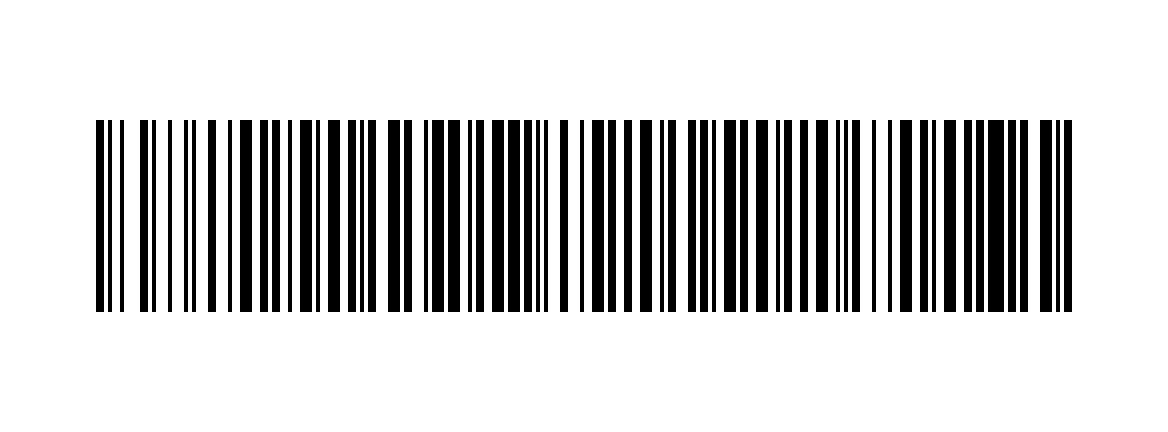
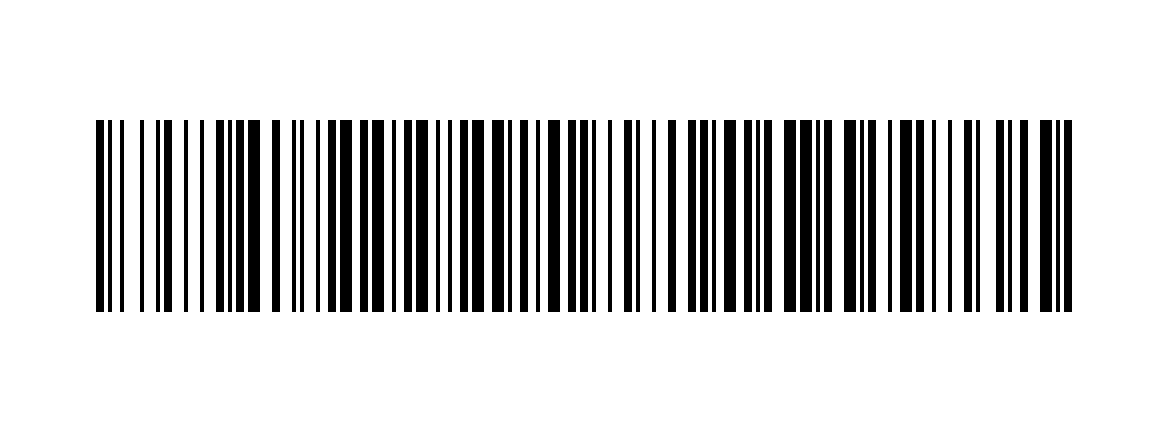
Rework matching to verify part numbers from kanban QR and tag barcode
The delivery-slip QR is a 66-char fixed record carrying the part number
at chars 11-20; the product-tag Code 128 encodes PART-NO@code. Comparing
raw payloads always mismatched on real labels, so CodeMatcher now
extracts and normalizes the part number from each side (with substring
fallback for non-standard QRs). Sample images and tests use payloads
decoded from real factory labels.

Changed region(s): [[0.1233, 0.2708, 0.5856, 0.7222], [0.6164, 0.2708, 0.8938, 0.7222]]

diff --git a/CodeMatchTests/CodeMatcherTests.swift b/CodeMatchTests/CodeMatcherTests.swift
@@ -2,23 +2,68 @@ import XCTest
 @testable import CodeMatch
 
 final class CodeMatcherTests: XCTestCase {
-    func testEqualValuesMatch() {
+    // 実ラベルからデコードした実データ
+    private let qrPayload = "DCLP675300BCJH5281GG020000120000001200L000000000000BLBDILLU92   0*"
+    private let barcodePayload = "BCJH-52-81GG@1N5X0C"
+
+    func testPartNumberFromBarcode() {
+        XCTAssertEqual(CodeMatcher.partNumber(fromBarcode: barcodePayload), "BCJH5281GG")
+        XCTAssertEqual(CodeMatcher.partNumber(fromBarcode: "KAAA-55-D86B@0Y5U0I"), "KAAA55D86B")
+        XCTAssertEqual(CodeMatcher.partNumber(fromBarcode: "BCJH-52-81GG"), "BCJH5281GG")
+        XCTAssertNil(CodeMatcher.partNumber(fromBarcode: "@ABC123"))
+    }
+
+    func testPartNumberFromQR() {
+        XCTAssertEqual(CodeMatcher.partNumber(fromQR: qrPayload), "BCJH5281GG")
+        // 枝番が空白のQR(納品書側の枝番欄が空)でも品目番号は取れる
         XCTAssertEqual(
-            CodeMatcher.compare("GA141KR9PA02@092D10", "GA141KR9PA02@092D10"),
+            CodeMatcher.partNumber(fromQR: "DAYA005100DFR55581GA  0001000000010000Y      000000BYBYTLYB16   0*"),
+            "DFR55581GA"
+        )
+        // カード番号フォーマットでない場合は固定位置抽出をしない
+        XCTAssertNil(CodeMatcher.partNumber(fromQR: "HELLO WORLD 1234567890"))
+        XCTAssertNil(CodeMatcher.partNumber(fromQR: "SHORT"))
+    }
+
+    func testRealPairMatches() {
+        XCTAssertEqual(CodeMatcher.compare(qrPayload: qrPayload, barcodePayload: barcodePayload), .match)
+    }
+
+    func testDifferentPartNumberMismatches() {
+        // BCJH-55-81GG (LH) と BCJH-52-81GG (RH) の取り違え
+        XCTAssertEqual(
+            CodeMatcher.compare(qrPayload: qrPayload, barcodePayload: "BCJH-55-81GG@1KVV0C"),
+            .mismatch
+        )
+    }
+
+    func testLotSuffixDifferenceStillMatches() {
+        // バーコードの@以降(管理コード)は品番照合に影響しない
+        XCTAssertEqual(
+            CodeMatcher.compare(qrPayload: qrPayload, barcodePayload: "BCJH-52-81GG@ZZZZZZ"),
             .match
         )
     }
 
-    func testSurroundingWhitespaceIsIgnored() {
-        XCTAssertEqual(CodeMatcher.compare("  ABC\n", "ABC"), .match)
+    func testNonStandardQRFallsBackToContainment() {
+        XCTAssertEqual(
+            CodeMatcher.compare(qrPayload: "PART:BCJH-52-81GG;QTY:12", barcodePayload: barcodePayload),
+            .match
+        )
+        XCTAssertEqual(
+            CodeMatcher.compare(qrPayload: "PART:DFR5-55-8SDA;QTY:30", barcodePayload: barcodePayload),
+            .mismatch
+        )
     }
 
-    func testComparisonIsCaseSensitive() {
-        XCTAssertEqual(CodeMatcher.compare("ABC", "abc"), .mismatch)
+    func testEmptyPayloadsMismatch() {
+        XCTAssertEqual(CodeMatcher.compare(qrPayload: "", barcodePayload: ""), .mismatch)
+        XCTAssertEqual(CodeMatcher.compare(qrPayload: qrPayload, barcodePayload: ""), .mismatch)
     }
 
-    func testDifferentValuesMismatch() {
-        XCTAssertEqual(CodeMatcher.compare("GA141KR9PA02@092D10", "GA141KR9PA02@092D11"), .mismatch)
+    func testFormatPartNumber() {
+        XCTAssertEqual(CodeMatcher.format(partNumber: "BCJH5281GG"), "BCJH-52-81GG")
+        XCTAssertEqual(CodeMatcher.format(partNumber: "ABC"), "ABC")
     }
 }
 
@@ -73,6 +118,25 @@ final class HistoryStoreTests: XCTestCase {
         XCTAssertEqual(store.sessions.count, 2)
         XCTAssertEqual(store.sessions[0].entries.map(\.code), ["SECOND"])
         XCTAssertEqual(store.sessions[1].entries.map(\.code), ["FIRST"])
+    }
+
+    func testDeleteSessionsRemovesAndPersists() {
+        let storageURL = temporaryStorageURL()
+        defer { try? FileManager.default.removeItem(at: storageURL.deletingLastPathComponent()) }
+        let store = HistoryStore(storageURL: storageURL)
+        store.beginSession()
+        store.recordMatch(code: "FIRST")
+        store.endActiveSession()
+        store.beginSession()
+        store.endActiveSession()
+
+        store.deleteSessions(at: IndexSet(integer: 0))
+
+        XCTAssertEqual(store.sessions.count, 1)
+        XCTAssertEqual(store.sessions.first?.entries.map(\.code), ["FIRST"])
+
+        let restored = HistoryStore(storageURL: storageURL)
+        XCTAssertEqual(restored.sessions.count, 1)
     }
 
     private func temporaryStorageURL() -> URL {

diff --git a/CodeMatch/Models/ScanModels.swift b/CodeMatch/Models/ScanModels.swift
@@ -31,11 +31,64 @@ enum ExpectedCode: Equatable {
     }
 }
 
+/// 現場ラベルの実データ仕様に基づく品番照合。
+///
+/// - 現品票のCode 128: `品番(ハイフン付き)@管理コード` 例: `BCJH-52-81GG@1N5X0C`
+/// - 納品書兼現品票のQR: 固定長レコード。先頭からカード番号(10桁)、品目番号(10桁・区切りなし)、
+///   枝番(2桁・空白の場合あり)、数量などが続く。例: `DCLP675300` + `BCJH5281GG` + `02` + …
+///
+/// 2つのペイロードは文字列としては一致しないため、双方から品番を抽出して比較する。
 enum CodeMatcher {
-    static func compare(_ first: String, _ second: String) -> MatchResult {
-        first.trimmingCharacters(in: .whitespacesAndNewlines)
-            == second.trimmingCharacters(in: .whitespacesAndNewlines)
-            ? .match
-            : .mismatch
+    /// 大文字化し、英数字以外(ハイフン・空白など)を取り除く。
+    static func normalize(_ raw: String) -> String {
+        raw.uppercased().filter { $0.isASCII && ($0.isLetter || $0.isNumber) }
+    }
+
+    /// Code 128ペイロードから品番を抽出する。`@`より前がハイフン付き品番。
+    /// `BCJH-52-81GG@1N5X0C` → `BCJH5281GG`
+    static func partNumber(fromBarcode raw: String) -> String? {
+        let head = raw.split(separator: "@", maxSplits: 1, omittingEmptySubsequences: false)
+            .first.map(String.init) ?? raw
+        let normalized = normalize(head)
+        return normalized.isEmpty ? nil : normalized
+    }
+
+    /// QRペイロードから品目番号を抽出する。
+    /// 先頭10桁がカード番号(英字4+数字6)の標準フォーマットのとき、続く10桁が品目番号。
+    static func partNumber(fromQR raw: String) -> String? {
+        let payload = raw.trimmingCharacters(in: .whitespacesAndNewlines).uppercased()
+        guard payload.count >= 20 else { return nil }
+        let cardNumber = payload.prefix(10)
+        guard cardNumber.range(of: "^[A-Z]{4}[0-9]{6}$", options: .regularExpression) != nil else {
+            return nil
+        }
+        let start = payload.index(payload.startIndex, offsetBy: 10)
+        let end = payload.index(payload.startIndex, offsetBy: 20)
+        let part = String(payload[start..<end])
+        guard part.range(of: "^[A-Z0-9]{10}$", options: .regularExpression) != nil else { return nil }
+        return part
+    }
+
+    /// QRの品目番号とバーコードの品番が同一かを判定する。
+    /// QRが標準フォーマットでない場合は、正規化した全文に品番が含まれるかで代替判定する。
+    static func compare(qrPayload: String, barcodePayload: String) -> MatchResult {
+        guard let barcodePart = partNumber(fromBarcode: barcodePayload) else { return .mismatch }
+
+        if let qrPart = partNumber(fromQR: qrPayload) {
+            return qrPart == barcodePart ? .match : .mismatch
+        }
+
+        // 誤検出を避けるため、代替判定は品番が十分な長さの場合だけ行う。
+        guard barcodePart.count >= 6 else { return .mismatch }
+        return normalize(qrPayload).contains(barcodePart) ? .match : .mismatch
+    }
+
+    /// 10桁の品番を現品票の表記(4-2-4)へ整形する。 `BCJH5281GG` → `BCJH-52-81GG`
+    static func format(partNumber: String) -> String {
+        guard partNumber.count == 10 else { return partNumber }
+        let head = partNumber.prefix(4)
+        let mid = partNumber.dropFirst(4).prefix(2)
+        let tail = partNumber.suffix(4)
+        return "\(head)-\(mid)-\(tail)"
     }
 }

diff --git a/tools/generate_test_codes.swift b/tools/generate_test_codes.swift
@@ -51,9 +51,11 @@ func code128(_ value: String) throws -> CIImage {
     return output.transformed(by: .init(scaleX: 4, y: 6))
 }
 
-let reference = "GA141KR9PA02@092D10"
-try write(qr(reference), name: "reference-qr.png", padding: 48)
-try write(code128(reference), name: "reference-code128.png", padding: 48)
-try write(code128("GA141KR9PA02@092D11"), name: "mismatch-code128.png", padding: 48)
+// 実ラベル仕様: QRは納品書兼現品票の固定長レコード、Code 128は現品票の「品番@管理コード」。
+// 品番 BCJH-52-81GG のペアが一致し、BCJH-55-81GG の現品票は不一致になる。
+let referenceQR = "DCLP675300BCJH5281GG020000120000001200L000000000000BLBDILLU92   0*"
+try write(qr(referenceQR), name: "reference-qr.png", padding: 48)
+try write(code128("BCJH-52-81GG@1N5X0C"), name: "reference-code128.png", padding: 48)
+try write(code128("BCJH-55-81GG@1KVV0C"), name: "mismatch-code128.png", padding: 48)
 
 print("Generated test codes in \(outputURL.path)")

diff --git a/CLAUDE.md b/CLAUDE.md
@@ -1,0 +1,57 @@
+# CLAUDE.md
+
+This file provides guidance to Claude Code (claude.ai/code) when working with code in this repository.
+
+## Project
+
+SwiftUI/AVFoundation iOS app (iOS 17+, Swift 5, bundle `jp.rimtty.CodeMatch`) that ports the `code-match` web SPA. The operator scans a QR code, then a Code 128 barcode, and the app compares the two strings. Everything is on-device: no networking, no photo capture, no accounts.
+
+Design rationale, the ported spec, and the acceptance checklist live in [docs/IMPLEMENTATION_GUIDE.md](docs/IMPLEMENTATION_GUIDE.md) — read it before changing scanner flow or UI behavior.
+
+## Build & test
+
+Xcode project (no SPM/CocoaPods). Open `CodeMatch.xcodeproj`, scheme `CodeMatch`.
+
+```bash
+DEVELOPER_DIR=/Applications/Xcode.app/Contents/Developer xcodebuild test -project CodeMatch.xcodeproj -scheme CodeMatch -destination 'platform=iOS Simulator,name=iPhone 17 Pro'
+```
+
+Single test target or single test:
+
+```bash
+DEVELOPER_DIR=/Applications/Xcode.app/Contents/Developer xcodebuild test -project CodeMatch.xcodeproj -scheme CodeMatch -destination 'platform=iOS Simulator,name=iPhone 17 Pro' -only-testing:CodeMatchTests/CodeMatcherTests/testComparisonIsCaseSensitive
+```
+
+Regenerate the printable sample codes in `TestResources/Generated`:
+
+```bash
+swift tools/generate_test_codes.swift TestResources/Generated
+```
+
+Simulators have no rear camera, so `CameraScanner` always fails there. Use the on-screen demo buttons (`demoMatchButton` / `demoMismatchButton`, visible in the scanner card) to exercise match/mismatch UI, sound, and state transitions; real scanning must be verified on a device.
+
+## Architecture
+
+Flow: `CodeMatchApp` → `RootTabView` (owns the single `HistoryStore`) → tabs. The scan tab shows `SessionStartView` until a session is active, then `ScannerScreen` keyed by `.id(session.id)`.
+
+- **`ScannerViewModel`** (`@MainActor`, `ObservableObject`) is the state machine: `ScanStep` goes `.qr` → `.barcode` → `.result(MatchResult)`. It is the `CameraScannerDelegate`, so all scan handling funnels through `cameraScanner(_:didRead:type:)`, which drops reads that don't match the currently `expectedCode`.
+- **`CameraScanner`** owns `AVCaptureSession` on a private serial `sessionQueue`, with metadata delivered on a second queue and hopped back to `@MainActor` before touching the delegate. Only `AVCaptureMetadataOutput` with `[.qr, .code128]` — deliberately no `AVCapturePhotoOutput`; do not add one.
+- **`HistoryStore`** (`@MainActor`) holds `[MatchSession]` newest-first; at most one session has `endedAt == nil` (`activeSession`). Persists to `Application Support/CodeMatch/match-history.json` with `.completeFileProtection`, excluded from backup. `init(storageURL:)` exists so tests can point at a temp directory.
+- **`CodeMatcher`** is the whole comparison rule: the QR (delivery slip, 66-char fixed record) carries the part number at chars 11–20; the Code 128 (product tag) is `PART-NO@code`. Both are normalized to a 10-char part number and compared; non-standard QRs fall back to substring containment. See `docs/qr-barcode-spec-analysis.html` for the decoded field map. Tests pin this behavior with real label payloads.
+
+Two misread defenses that are intentional and easy to break accidentally:
+
+- `scanLocked` suppresses reads for 250ms after accepting a QR value.
+- Code 128 requires the *same* value seen twice within 0.7s (`barcodeCandidate`) before it is accepted; only then does the camera stop and comparison run.
+
+Audio/haptics: `FeedbackPlayer` synthesizes PCM tones via `AVAudioEngine` (ambient category, `.mixWithOthers`). Per the guide, individual code acceptance is haptic-only plus a short chirp; the success chime and the 4× failure alert fire only at the final verdict. Success is delayed ~0.28s after a barcode accept so the chirp and chime don't collide.
+
+Only matches are recorded (`historyStore.recordMatch` on `.match`); mismatches never touch history or the header count.
+
+## Conventions
+
+- All user-facing strings are Japanese, hardcoded in the views — there is no localization catalog. UI tests match on those literal Japanese labels (e.g. `一致しました`, `終了する`), so changing copy breaks `CodeMatchUITests`.
+- UI tests drive the app through launch arguments handled in `HistoryStore.init` / `ScannerViewModel.init` / `RootTabView.init`: `-resetHistory` wipes the store, `-demoMatch` boots straight into an active session showing a match. Keep the three sites in sync when adding a hook.
+- Views are addressed in tests by `.accessibilityIdentifier` (`startSessionButton`, `endSessionButton`, `sessionMatchCount`, `resetButton`, `scannerTitle`, `historySessionRow`, …); preserve identifiers when refactoring view hierarchies.
+- Colors come only from `AppTheme` (inherited from the web version's charcoal/green/lime); the app pins `.preferredColorScheme(.light)`.
+- The app declares no tracking in `Resources/PrivacyInfo.xcprivacy`. Any cloud sync, analytics, or SDK addition requires updating that manifest and the App Store Connect answers.

diff --git a/README.md b/README.md
@@ -1,6 +1,6 @@
 # Code Match for iOS
 
-`code-match` SPAの基本機能を、SwiftUIとAVFoundationで再実装したiOSネイティブアプリです。QRコードを先に、Code 128バーコードを次に読み取り、前後の空白・改行だけを除いて完全一致を判定します。一致したコードは作業セッション単位の履歴として端末内だけに保存され、端末外へ送信しません。
+`code-match` SPAの基本機能を、SwiftUIとAVFoundationで再実装したiOSネイティブアプリです。納品書兼現品票のQRコードを先に、現品票のCode 128バーコードを次に読み取り、QRの固定長レコードから抽出した品目番号(10桁)とバーコードの`@`より前の品番を照合します（データ仕様は [docs/qr-barcode-spec-analysis.html](docs/qr-barcode-spec-analysis.html) を参照）。一致したコードは作業セッション単位の履歴として端末内だけに保存され、端末外へ送信しません。
 
 ## すぐに実行する
 
